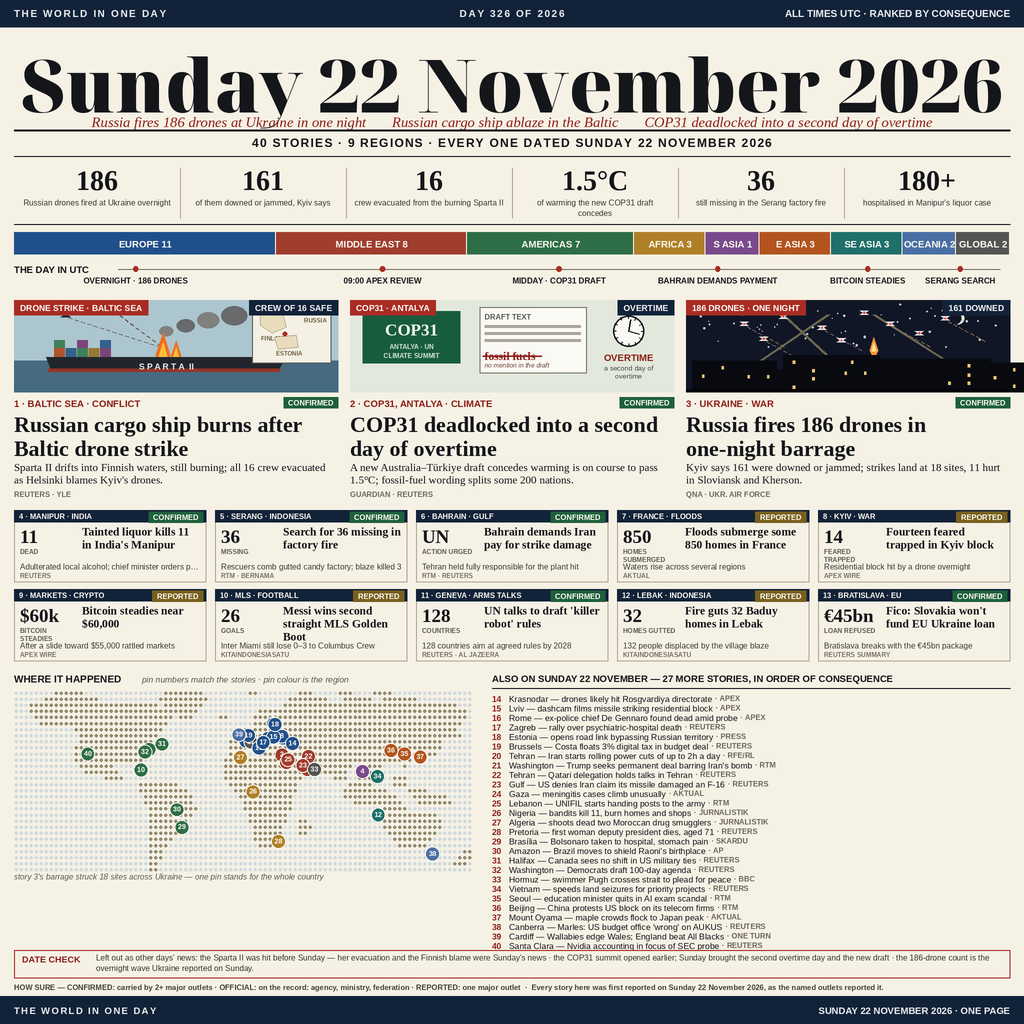
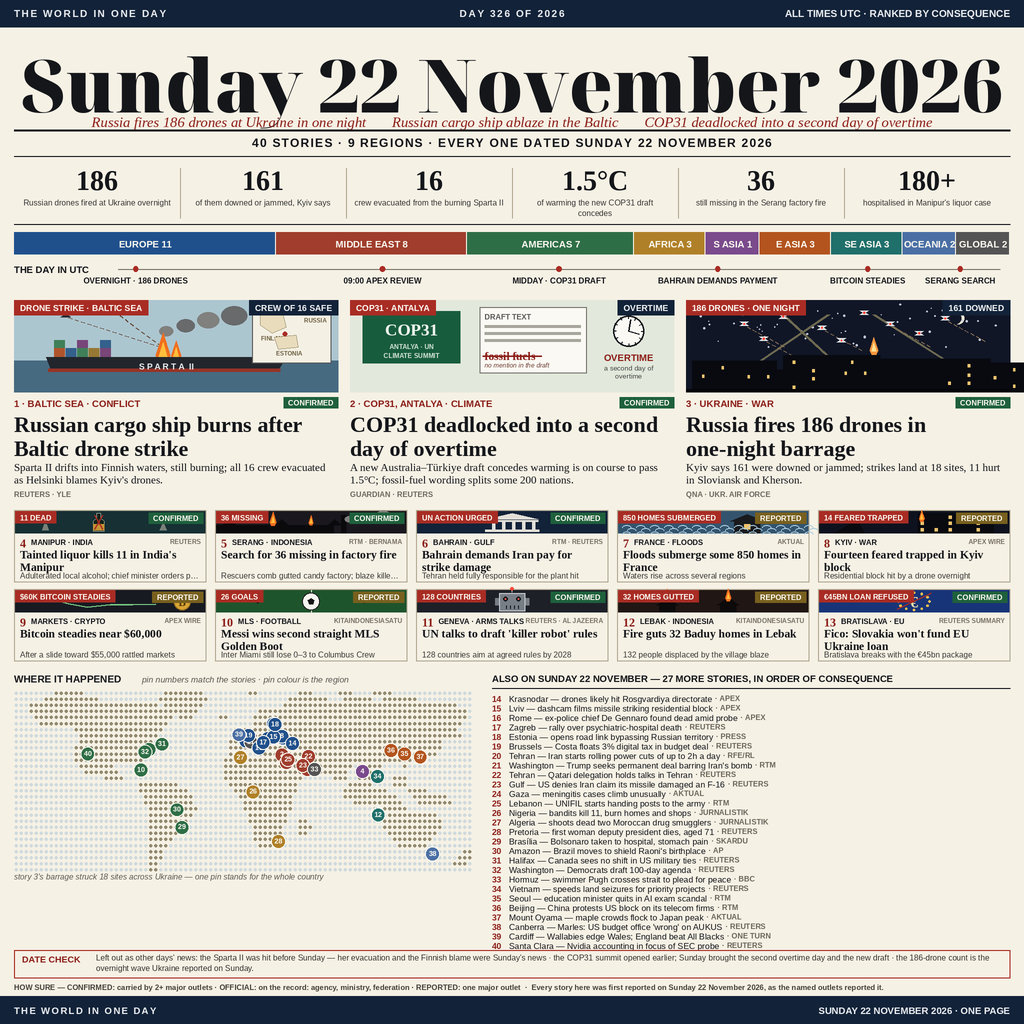
news-image-20261122 v3: illustrate every story card (winner-pattern strips, stat chips, badges); leads, masthead, map unchanged

Changed region(s): [[0.0, 0.5, 1.0, 0.6562]]

diff --git a/render.py b/render.py
@@ -453,6 +453,173 @@ def paint_drones(d, x, y, w, h):
     rect(d, x, y + h - 3, x + w, y + h, fill=(4, 5, 8))
 
 
+# ------------------------------------------------------- mini card art ---
+# Small illustrated strips for the story cards, in the same flat drawn
+# style as the leads (both winning editions illustrate every card).
+
+def _mini_bottle(d, x, y, w, h):
+    rect(d, x, y, x + w, y + h, fill=(22, 48, 52))
+    bx = x + w * 0.44
+    _poly(d, [(bx - 2, y + 2), (bx + 2, y + 2), (bx + 2, y + 7),
+              (bx + 5.5, y + 10), (bx + 5.5, y + h - 2),
+              (bx - 5.5, y + h - 2), (bx - 5.5, y + 10), (bx - 2, y + 7)],
+          (16, 34, 24), (196, 200, 180), 0.8)
+    rect(d, bx - 5.5, y + h - 9, bx + 5.5, y + h - 3, fill=(198, 148, 52))
+    d.line([X(bx - 4), X(y + 4), X(bx + 4), X(y + h - 4)], fill=RED,
+           width=int(1.6 * SS))
+    d.line([X(bx - 4), X(y + h - 4), X(bx + 4), X(y + 4)], fill=RED,
+           width=int(1.6 * SS))
+    for gx in (0.16, 0.78):
+        gx_ = x + w * gx
+        _poly(d, [(gx_ - 3.4, y + h - 3), (gx_ + 3.4, y + h - 3),
+                  (gx_ + 1.2, y + h - 9), (gx_ - 1.2, y + h - 9)],
+              (120, 128, 120))
+
+
+def _mini_factory(d, x, y, w, h):
+    rect(d, x, y, x + w, y + h, fill=(26, 24, 30))
+    rect(d, x, y + h - 8, x + w * 0.62, y + h, fill=(10, 10, 12))
+    for i in range(3):
+        sx = x + 6 + i * (w * 0.62 - 12) / 2
+        _poly(d, [(sx, y + h - 8), (sx + 7, y + h - 14), (sx + 14, y + h - 8)],
+              (10, 10, 12))
+    rect(d, x + w * 0.66, y + 4, x + w * 0.66 + 5, y + h, fill=(10, 10, 12))
+    _flame(d, x + w * 0.30, y + h - 13, 5.5)
+    _flame(d, x + w * 0.50, y + h - 12, 4)
+    for i, (sx, sy, r) in enumerate(((0.70, 0.24, 4.5), (0.78, 0.16, 6),
+                                     (0.88, 0.10, 7.5))):
+        cx, cy = x + w * sx, y + h * sy + 3
+        d.ellipse([X(cx - r), X(cy - r * 0.7), X(cx + r), X(cy + r * 0.7)],
+                  fill=(104, 104, 106) if i % 2 else (128, 128, 126))
+
+
+def _mini_columns(d, x, y, w, h):
+    rect(d, x, y, x + w, y + h, fill=NAVY)
+    cx = x + w / 2
+    _poly(d, [(cx - 26, y + 8), (cx + 26, y + 8), (cx, y + 2)],
+          (226, 224, 216))
+    rect(d, cx - 26, y + 9, cx + 26, y + 10.5, fill=(226, 224, 216))
+    for i in range(5):
+        cxx = cx - 20 + i * 10
+        rect(d, cxx, y + 11, cxx + 3.4, y + h - 4, fill=(226, 224, 216))
+    rect(d, cx - 27, y + h - 3.5, cx + 27, y + h - 1.5,
+         fill=(226, 224, 216))
+
+
+def _mini_flood(d, x, y, w, h):
+    rect(d, x, y, x + w, y + h, fill=(52, 84, 110))
+    hx = x + w * 0.60
+    _poly(d, [(hx - 2, y + 10), (hx + 15, y + 3), (hx + 32, y + 10)],
+          (24, 26, 30))
+    rect(d, hx + 2, y + 10, hx + 28, y + h, fill=(24, 26, 30))
+    rect(d, hx + 12, y + 13, hx + 18, y + 18, fill=(238, 196, 110))
+    for r_ in range(3):
+        wy = y + h - 8 + r_ * 3.4
+        for c_ in range(14):
+            wx = x + 4 + c_ * (w - 8) / 13 + (r_ % 2) * 5
+            d.arc([X(wx), X(wy), X(wx + 9), X(wy + 5)], 180, 360,
+                  fill=(168, 204, 224), width=SS)
+
+
+def _mini_block(d, x, y, w, h):
+    rect(d, x, y, x + w, y + h, fill=(14, 18, 30))
+    bx = x + w * 0.52
+    rect(d, bx, y + 2, bx + w * 0.40, y + h, fill=(8, 10, 16))
+    import random
+    rng = random.Random(8)
+    for wy in range(3):
+        for wx in range(5):
+            if rng.random() < 0.5:
+                rect(d, bx + 3 + wx * (w * 0.40 - 6) / 5,
+                     y + 4.5 + wy * 6.4, bx + 6 + wx * (w * 0.40 - 6) / 5,
+                     y + 7.5 + wy * 6.4, fill=(238, 196, 110))
+    _flame(d, bx + 4, y + 6, 4.5)
+    _poly(d, [(x + w * 0.08, y + h), (x + w * 0.20, y + 8),
+              (x + w * 0.24, y + h)], (8, 10, 16))
+
+
+def _mini_coin(d, x, y, w, h):
+    rect(d, x, y, x + w, y + h, fill=(24, 26, 34))
+    pts = [(0.04, 0.24), (0.16, 0.34), (0.28, 0.62), (0.38, 0.78),
+           (0.50, 0.66), (0.62, 0.68), (0.74, 0.64)]
+    pp = [(x + w * a, y + h * b) for a, b in pts]
+    for (ax, ay), (bx2, by2) in zip(pp, pp[1:]):
+        d.line([X(ax), X(ay), X(bx2), X(by2)], fill=(120, 200, 130),
+               width=int(1.5 * SS))
+    cx, cy, r = x + w * 0.88, y + h * 0.52, 8.6
+    d.ellipse([X(cx - r), X(cy - r), X(cx + r), X(cy + r)],
+              fill=(216, 164, 52), outline=(150, 108, 30),
+              width=int(1.2 * SS))
+    text_c(d, cx, cy - 5.6, "B", font(SERIF_B, 11), (84, 58, 10))
+
+
+def _mini_ball(d, x, y, w, h):
+    rect(d, x, y, x + w, y + h, fill=(30, 84, 44))
+    d.line([X(x + w * 0.5), X(y), X(x + w * 0.5), X(y + h)],
+           fill=(220, 230, 214), width=SS)
+    cx, cy, r = x + w * 0.5, y + h * 0.52, 8.8
+    d.ellipse([X(cx - r), X(cy - r), X(cx + r), X(cy + r)],
+              fill=(244, 244, 240), outline=(30, 30, 30), width=SS)
+    _poly(d, [(cx, cy - 3.4), (cx + 3.2, cy - 1.1), (cx + 2, cy + 2.8),
+              (cx - 2, cy + 2.8), (cx - 3.2, cy - 1.1)], (20, 20, 20))
+    for a in (0.22, 0.78):
+        d.ellipse([X(x + w * a - 1.6), X(cy - 1.6), X(x + w * a + 1.6),
+                   X(cy + 1.6)], fill=(20, 20, 20))
+
+
+def _mini_robot(d, x, y, w, h):
+    rect(d, x, y, x + w, y + h, fill=(30, 32, 40))
+    cx, cy = x + w * 0.5, y + h * 0.56
+    d.line([X(cx), X(cy - 10), X(cx), X(cy - 13)], fill=(170, 174, 180),
+           width=SS)
+    d.ellipse([X(cx - 1.6), X(cy - 15), X(cx + 1.6), X(cy - 12)],
+              fill=(255, 70, 50))
+    rect(d, cx - 13, cy - 9, cx + 13, cy + 9, fill=(120, 126, 134),
+         outline=(196, 200, 206), wdt=1)
+    for ex in (-6.5, 6.5):
+        d.ellipse([X(cx + ex - 2.1), X(cy - 5.5), X(cx + ex + 2.1),
+                   X(cy - 1.3)], fill=(24, 26, 30))
+        d.ellipse([X(cx + ex - 0.8), X(cy - 4.2), X(cx + ex + 0.8),
+                   X(cy - 2.6)], fill=(255, 90, 70))
+    for i in range(4):
+        gx = cx - 6 + i * 4
+        d.line([X(gx), X(cy + 3.4), X(gx), X(cy + 6.6)],
+               fill=(24, 26, 30), width=SS)
+    rect(d, cx - 17, cy - 4, cx - 13.5, cy + 3, fill=(120, 126, 134))
+    rect(d, cx + 13.5, cy - 4, cx + 17, cy + 3, fill=(120, 126, 134))
+
+
+def _mini_houses(d, x, y, w, h):
+    rect(d, x, y, x + w, y + h, fill=(32, 22, 20))
+    for i, fx_ in enumerate((0.26, 0.58)):
+        hx = x + w * fx_
+        _poly(d, [(hx - 11, y + h - 7), (hx, y + h - 15),
+                  (hx + 11, y + h - 7)], (12, 10, 10))
+        rect(d, hx - 8, y + h - 7, hx + 8, y + h, fill=(12, 10, 10))
+        _flame(d, hx, y + h - 16, 5)
+    d.ellipse([X(x + w * 0.80), X(y + 3), X(x + w * 0.80 + 12),
+               X(y + 8)], fill=(110, 104, 100))
+
+
+def _mini_euro(d, x, y, w, h):
+    rect(d, x, y, x + w, y + h, fill=(24, 52, 120))
+    cx, cy = x + w * 0.5, y + h * 0.52
+    import math
+    for i in range(12):
+        a = math.radians(i * 30 - 90)
+        sx, sy = cx + 15.5 * math.cos(a), cy + 8.6 * math.sin(a)
+        d.ellipse([X(sx - 1.1), X(sy - 1.1), X(sx + 1.1), X(sy + 1.1)],
+                  fill=(232, 190, 80))
+    text_c(d, cx, cy - 8.6, "€", font(SERIF_B, 16), (240, 226, 170))
+    d.line([X(cx - 17), X(cy + 8), X(cx + 17), X(cy - 8)], fill=RED,
+           width=int(1.7 * SS))
+
+
+MINI = {"bottle": _mini_bottle, "factory": _mini_factory,
+        "columns": _mini_columns, "flood": _mini_flood,
+        "block": _mini_block, "coin": _mini_coin, "ball": _mini_ball,
+        "robot": _mini_robot, "houses": _mini_houses, "euro": _mini_euro}
+
 PAINTERS = {"gulf": paint_gulf, "ship": paint_ship, "cop": paint_cop,
             "drones": paint_drones}
 
@@ -501,25 +668,32 @@ def cards(d, y0):
         x = 14 + col * (cw + 9)
         y = y0 + row * (ch + 7)
         rect(d, x, y, x + cw, y + ch, outline=(176, 168, 146), wdt=1)
-        rect(d, x, y, x + cw, y + 12, fill=NAVY)
-        text_l(d, x + 5, y + 2.2, "%d · %s" % (c["n"], c["tag"]),
-               font(SANS_B, 7.6), (250, 248, 240))
-        badge(d, x + cw - 3, y + 1.5, c["badge"], BADGE_FILL[c["badge"]])
-        text_l(d, x + 6, y + 16, c["stat"], font(SERIF_B, 19), INK)
-        for j, ln in enumerate(wrap(d, c["note"], font(SANS_B, 6.6), 56)[:2]):
-            text_l(d, x + 6, y + 38 + j * 8, ln, font(SANS_B, 6.6),
-                   (96, 92, 84))
-        hy = y + 15
-        for ln in wrap(d, c["headline"], font(SERIF_B, 11.5), cw - 74)[:3]:
-            d.text((X(x + 68), X(hy)), ln, font=font(SERIF_B, 11.5),
-                   fill=INK)
-            hy += 13
-        det = c["detail"]
-        while det and d.textlength(det, font=font(SANS, 8.4)) / SS > cw - 11:
-            det = det[:-2].rstrip() + "…" if len(det) > 4 else det[:-1]
-        text_l(d, x + 6, y + ch - 20, det, font(SANS, 8.4), (56, 56, 52))
-        text_l(d, x + 6, y + ch - 10, c["sources"], font(SANS_B, 6.6),
+        # illustrated strip, as both winning editions draw on every card:
+        # a small scene, the stat as a red chip at its left, the certainty
+        # badge at its right
+        MINI[c["art"]](d, x + 1, y + 1, cw - 2, 22)
+        chip = ("%s %s" % (c["stat"], c["note"])).upper()
+        f = font(SANS_B, 7.5)
+        chw = d.textlength(chip, font=f) / SS + 10
+        rect(d, x + 1, y + 1, x + 1 + chw, y + 13, fill=RED)
+        text_l(d, x + 6, y + 3.4, chip, f, (252, 248, 240))
+        badge(d, x + cw - 3, y + 2.5, c["badge"], BADGE_FILL[c["badge"]])
+        # kicker row: number and place at the left, sources at the right
+        text_l(d, x + 6, y + 26.5, str(c["n"]), font(SERIF_B, 12), RED_D)
+        nw = d.textlength(str(c["n"]), font=font(SERIF_B, 12)) / SS
+        text_l(d, x + 11 + nw, y + 28.2, c["tag"], font(SANS_B, 7.6), INK)
+        text_r(d, x + cw - 5, y + 28.2, c["sources"], font(SANS_B, 6.6),
                (120, 114, 100))
+        # headline, up to two lines at full card width
+        hy = y + 38
+        for ln in wrap(d, c["headline"], font(SERIF_B, 11.5), cw - 12)[:2]:
+            d.text((X(x + 6), X(hy)), ln, font=font(SERIF_B, 11.5),
+                   fill=INK)
+            hy += 12.5
+        det = c["detail"]
+        while det and d.textlength(det, font=font(SANS, 8.2)) / SS > cw - 12:
+            det = det[:-2].rstrip() + "…" if len(det) > 4 else det[:-1]
+        text_l(d, x + 6, y + ch - 11, det, font(SANS, 8.2), (56, 56, 52))
     return y0 + 2 * ch + 7
 
 

diff --git a/data.py b/data.py
@@ -62,51 +62,61 @@ DAY = {
     ],
     "cards": [
         {"n": 4, "tag": "MANIPUR · INDIA", "badge": "CONFIRMED",
+         "art": "bottle",
          "stat": "11", "note": "DEAD",
          "headline": "Tainted liquor kills 11 in India's Manipur",
          "detail": "Adulterated local alcohol; chief minister orders probe",
          "sources": "REUTERS"},
         {"n": 5, "tag": "SERANG · INDONESIA", "badge": "CONFIRMED",
+         "art": "factory",
          "stat": "36", "note": "MISSING",
          "headline": "Search for 36 missing in factory fire",
          "detail": "Rescuers comb gutted candy factory; blaze killed 3",
          "sources": "RTM · BERNAMA"},
         {"n": 6, "tag": "BAHRAIN · GULF", "badge": "CONFIRMED",
+         "art": "columns",
          "stat": "UN", "note": "ACTION URGED",
          "headline": "Bahrain demands Iran pay for strike damage",
          "detail": "Tehran held fully responsible for the plant hit",
          "sources": "RTM · REUTERS"},
         {"n": 7, "tag": "FRANCE · FLOODS", "badge": "REPORTED",
+         "art": "flood",
          "stat": "850", "note": "HOMES SUBMERGED",
          "headline": "Floods submerge some 850 homes in France",
          "detail": "Waters rise across several regions",
          "sources": "AKTUAL"},
         {"n": 8, "tag": "KYIV · WAR", "badge": "REPORTED",
+         "art": "block",
          "stat": "14", "note": "FEARED TRAPPED",
          "headline": "Fourteen feared trapped in Kyiv block",
          "detail": "Residential block hit by a drone overnight",
          "sources": "APEX WIRE"},
         {"n": 9, "tag": "MARKETS · CRYPTO", "badge": "REPORTED",
+         "art": "coin",
          "stat": "$60k", "note": "BITCOIN STEADIES",
          "headline": "Bitcoin steadies near $60,000",
          "detail": "After a slide toward $55,000 rattled markets",
          "sources": "APEX WIRE"},
         {"n": 10, "tag": "MLS · FOOTBALL", "badge": "REPORTED",
+         "art": "ball",
          "stat": "26", "note": "GOALS",
          "headline": "Messi wins second straight MLS Golden Boot",
          "detail": "Inter Miami still lose 0–3 to Columbus Crew",
          "sources": "KITAINDONESIASATU"},
         {"n": 11, "tag": "GENEVA · ARMS TALKS", "badge": "CONFIRMED",
+         "art": "robot",
          "stat": "128", "note": "COUNTRIES",
          "headline": "UN talks to draft 'killer robot' rules",
          "detail": "128 countries aim at agreed rules by 2028",
          "sources": "REUTERS · AL JAZEERA"},
         {"n": 12, "tag": "LEBAK · INDONESIA", "badge": "REPORTED",
+         "art": "houses",
          "stat": "32", "note": "HOMES GUTTED",
          "headline": "Fire guts 32 Baduy homes in Lebak",
          "detail": "132 people displaced by the village blaze",
          "sources": "KITAINDONESIASATU"},
         {"n": 13, "tag": "BRATISLAVA · EU", "badge": "CONFIRMED",
+         "art": "euro",
          "stat": "€45bn", "note": "LOAN REFUSED",
          "headline": "Fico: Slovakia won't fund EU Ukraine loan",
          "detail": "Bratislava breaks with the €45bn package",

diff --git a/README.md b/README.md
@@ -4,7 +4,7 @@
 
 # The World in One Day — Sunday 22 November 2026: 40 stories, 9 regions, every one dated
 
-An original editorial broadsheet poster for [make.fun](https://make.fun/bounty/news-image-20261122): the whole of Sunday 22 November 2026's world news on one 1024 × 1024 page — a giant dated masthead, the day in UTC on a timeline, six key numbers, three illustrated lead stories (the Sparta II burning in the Baltic, COP31 in a second day of overtime, and the 186-drone barrage over Ukraine), ten numbered story cards, a pin map of where it happened, and 27 more dated stories in the "Also on Sunday" column. A date-check box names the context that belongs to another day. No news photography: every picture, map and icon is original geometry drawn by `render.py` (Pillow, deterministic, supersampled 2048 → 1024). Full source list: see `SOURCES.md`.
+An original editorial broadsheet poster for [make.fun](https://make.fun/bounty/news-image-20261122): the whole of Sunday 22 November 2026's world news on one 1024 × 1024 page — a giant dated masthead, the day in UTC on a timeline, six key numbers, three illustrated lead stories (the Sparta II burning in the Baltic, COP31 in a second day of overtime, and the 186-drone barrage over Ukraine), ten numbered story cards — each with its own illustrated strip, its key number as a chip and its certainty badge — a pin map of where it happened, and 27 more dated stories in the "Also on Sunday" column. A date-check box names the context that belongs to another day. No news photography: every picture, map and icon is original geometry drawn by `render.py` (Pillow, deterministic, supersampled 2048 → 1024). Full source list: see `SOURCES.md`.
 
 ![The World in One Day for Sunday 22 November 2026 — 40 dated stories, 9 regions](entry.png)
 
